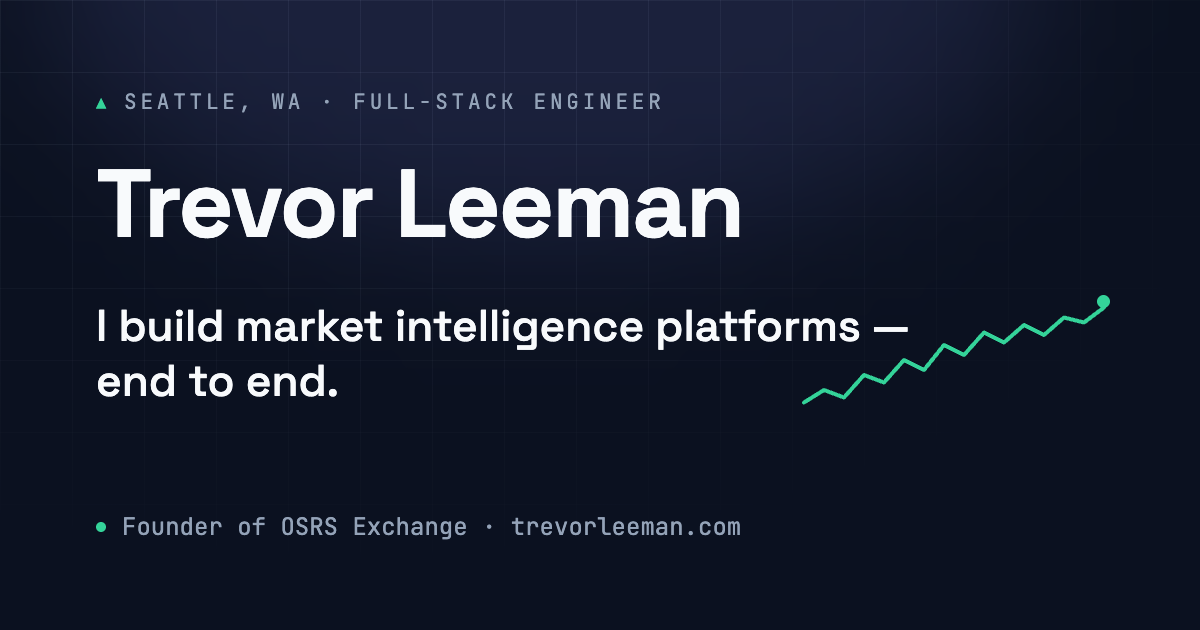
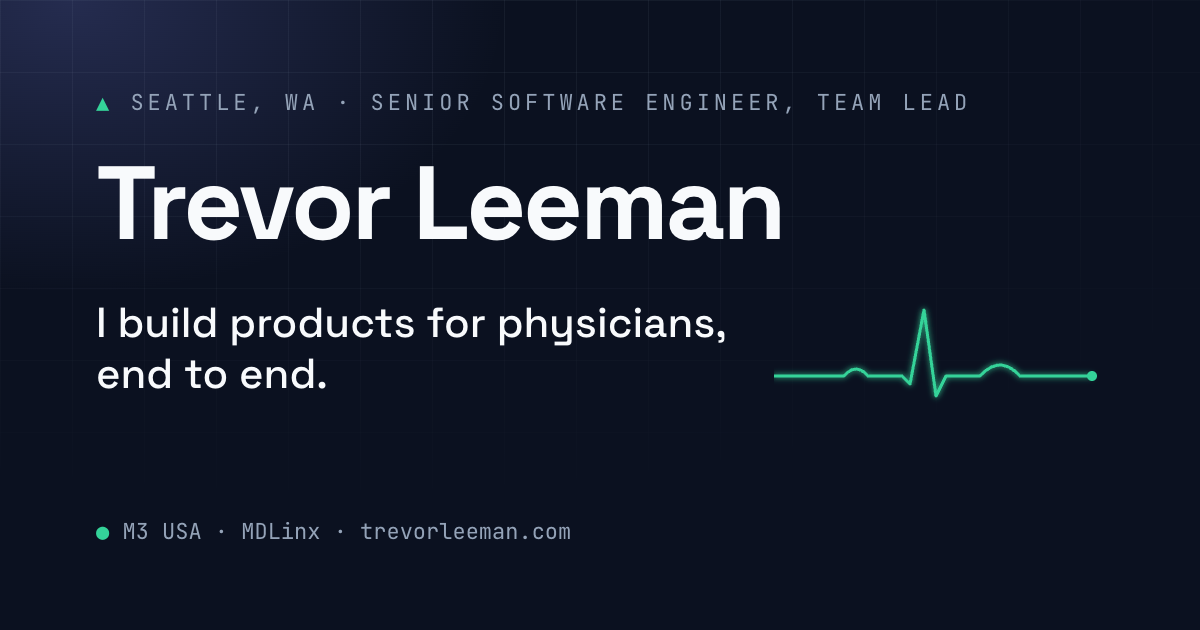
Point SEO metadata and JSON-LD at M3 USA
Seo now imports the shared link constants, describes the M3 USA role,
and publishes a three-node graph (Person, WebSite, WebPage) with an
inline M3 USA employer. The social card is regenerated to match.

Claude-Session: https://claude.ai/code/session_013uWvAv5G7egjAxtC1X79kG

diff --git a/src/components/seo/Seo.tsx b/src/components/seo/Seo.tsx
@@ -1,28 +1,20 @@
 import Head from 'next/head';
+import { GITHUB_URL, LINKEDIN_URL, M3_USA_URL, SITE_URL } from '../../lib/links';
 
-const SITE_URL = 'https://www.trevorleeman.com';
 const SITE_NAME = 'Trevor Leeman';
 const PERSON_NAME = 'Trevor Leeman';
-const JOB_TITLE = 'Full-Stack Software Engineer';
-const LINKEDIN_URL = 'https://www.linkedin.com/in/trevor-leeman/';
-const GITHUB_URL = 'https://github.com/TrevorLeeman';
-const OSRS_EXCHANGE_URL = 'https://www.osrs.exchange';
+const JOB_TITLE = 'Senior Software Engineer, Team Lead';
 
-const DEFAULT_TITLE = 'Trevor Leeman | Full-Stack Engineer & Founder of OSRS Exchange';
+const DEFAULT_TITLE = 'Trevor Leeman | Senior Software Engineer at M3 USA';
 const DEFAULT_DESCRIPTION =
-  'Full-stack software engineer in Seattle building OSRS Exchange, a real-time trading platform used by 40,000+ players monthly. React, Next.js, TypeScript, and UX obsession.';
+  'Senior Software Engineer and Team Lead at M3 USA, based in Seattle. I build the products physicians use on MDLinx: games, sponsored campaigns, experiments, and ads.';
 const DEFAULT_IMAGE_URL = `${SITE_URL}/og-image.png`;
 const DEFAULT_IMAGE_ALT =
-  'Dark dashboard-styled card with a rising market sparkline. The text reads: Trevor Leeman. I build market intelligence platforms, end to end. Founder of OSRS Exchange.';
+  'Dark card with a small green EKG pulse line. The text reads: Trevor Leeman. I build products for physicians, end to end. Senior Software Engineer, Team Lead at M3 USA.';
 
 const PERSON_ID = `${SITE_URL}/#person`;
 const WEBSITE_ID = `${SITE_URL}/#website`;
 const WEBPAGE_ID = `${SITE_URL}/#webpage`;
-const ORGANIZATION_ID = `${OSRS_EXCHANGE_URL}/#organization`;
-const APPLICATION_ID = `${OSRS_EXCHANGE_URL}/#application`;
-
-const OSRS_EXCHANGE_DESCRIPTION =
-  'OSRS Exchange is a real-time Grand Exchange trading platform for Old School RuneScape, used by 40,000+ players every month. It turns live data from the OSRS Wiki Real-Time Prices API into actionable signals: real-time price tracking, high-margin flip finding, price alerts, recipe profit calculations, and Death’s Coffer valuations across 4,600+ tradeable items.';
 
 type JsonLd = Record<string, unknown>;
 
@@ -48,7 +40,7 @@ const personJsonLd: JsonLd = {
   jobTitle: JOB_TITLE,
   url: SITE_URL,
   description:
-    'Full-stack software engineer in Seattle, WA. Founder and sole engineer of OSRS Exchange, a real-time market data trading platform.',
+    'Senior Software Engineer and Team Lead at M3 USA, based in Seattle, WA. Builds the interactive products on MDLinx end to end, from content model and API through frontend, tracking, and release.',
   address: {
     '@type': 'PostalAddress',
     addressLocality: 'Seattle',
@@ -61,30 +53,29 @@ const personJsonLd: JsonLd = {
     'Next.js',
     'TypeScript',
     'Node.js',
-    'NestJS',
-    'Tailwind CSS',
+    'GraphQL',
+    'Django',
     'PostgreSQL',
+    'Contentful',
+    'Google Ad Manager',
+    'A/B testing',
+    'Google Cloud Platform',
+    'AWS',
+    'Terraform',
+    'Kubernetes',
     'Docker',
+    'Application security',
+    'Tailwind CSS',
     'UX design',
-    'Real-time market data',
     'AI-native development workflows',
     'Agentic coding tools',
   ],
-  worksFor: [{ '@id': ORGANIZATION_ID }, { '@type': 'Organization', name: 'M3 USA' }],
+  worksFor: { '@type': 'Organization', name: 'M3 USA', url: M3_USA_URL },
   alumniOf: [
     { '@type': 'CollegeOrUniversity', name: 'Central Washington University' },
     { '@type': 'CollegeOrUniversity', name: 'Everett Community College' },
   ],
   subjectOf: { '@id': WEBSITE_ID },
-};
-
-const organizationJsonLd: JsonLd = {
-  '@type': 'Organization',
-  '@id': ORGANIZATION_ID,
-  name: 'OSRS Exchange',
-  url: OSRS_EXCHANGE_URL,
-  description: OSRS_EXCHANGE_DESCRIPTION,
-  founder: { '@id': PERSON_ID },
 };
 
 const webSiteJsonLd: JsonLd = {
@@ -109,29 +100,9 @@ const webPageJsonLd: JsonLd = {
   about: { '@id': PERSON_ID },
 };
 
-const webApplicationJsonLd: JsonLd = {
-  '@type': 'WebApplication',
-  '@id': APPLICATION_ID,
-  name: 'OSRS Exchange',
-  url: OSRS_EXCHANGE_URL,
-  applicationCategory: 'FinanceApplication',
-  applicationSubCategory: 'Game market analysis',
-  browserRequirements: 'Requires a modern web browser.',
-  description: OSRS_EXCHANGE_DESCRIPTION,
-  featureList: [
-    'GE Tracker: real-time Grand Exchange price tracking and high-margin flip finder',
-    'Price Alerts: notifications when an item crosses a target price',
-    'Recipe Profit: live profitability calculator for crafting recipes',
-    'Death’s Coffer: value calculator for Death’s Coffer item sacrifices',
-  ],
-  author: { '@id': PERSON_ID },
-  creator: { '@id': PERSON_ID },
-  publisher: { '@id': ORGANIZATION_ID },
-};
-
 const structuredData: JsonLd = {
   '@context': 'https://schema.org',
-  '@graph': [personJsonLd, organizationJsonLd, webSiteJsonLd, webPageJsonLd, webApplicationJsonLd],
+  '@graph': [personJsonLd, webSiteJsonLd, webPageJsonLd],
 };
 
 const Seo = ({

diff --git a/src/lib/links.ts b/src/lib/links.ts
@@ -1,5 +1,5 @@
 export const SITE_URL = 'https://www.trevorleeman.com';
 export const LINKEDIN_URL = 'https://www.linkedin.com/in/trevor-leeman/';
 export const GITHUB_URL = 'https://github.com/TrevorLeeman';
-export const OSRS_EXCHANGE_URL = 'https://www.osrs.exchange';
+export const M3_USA_URL = 'https://usa.m3.com';
 export const PORTFOLIO_REPO_URL = 'https://github.com/TrevorLeeman/trevorleeman.com';
